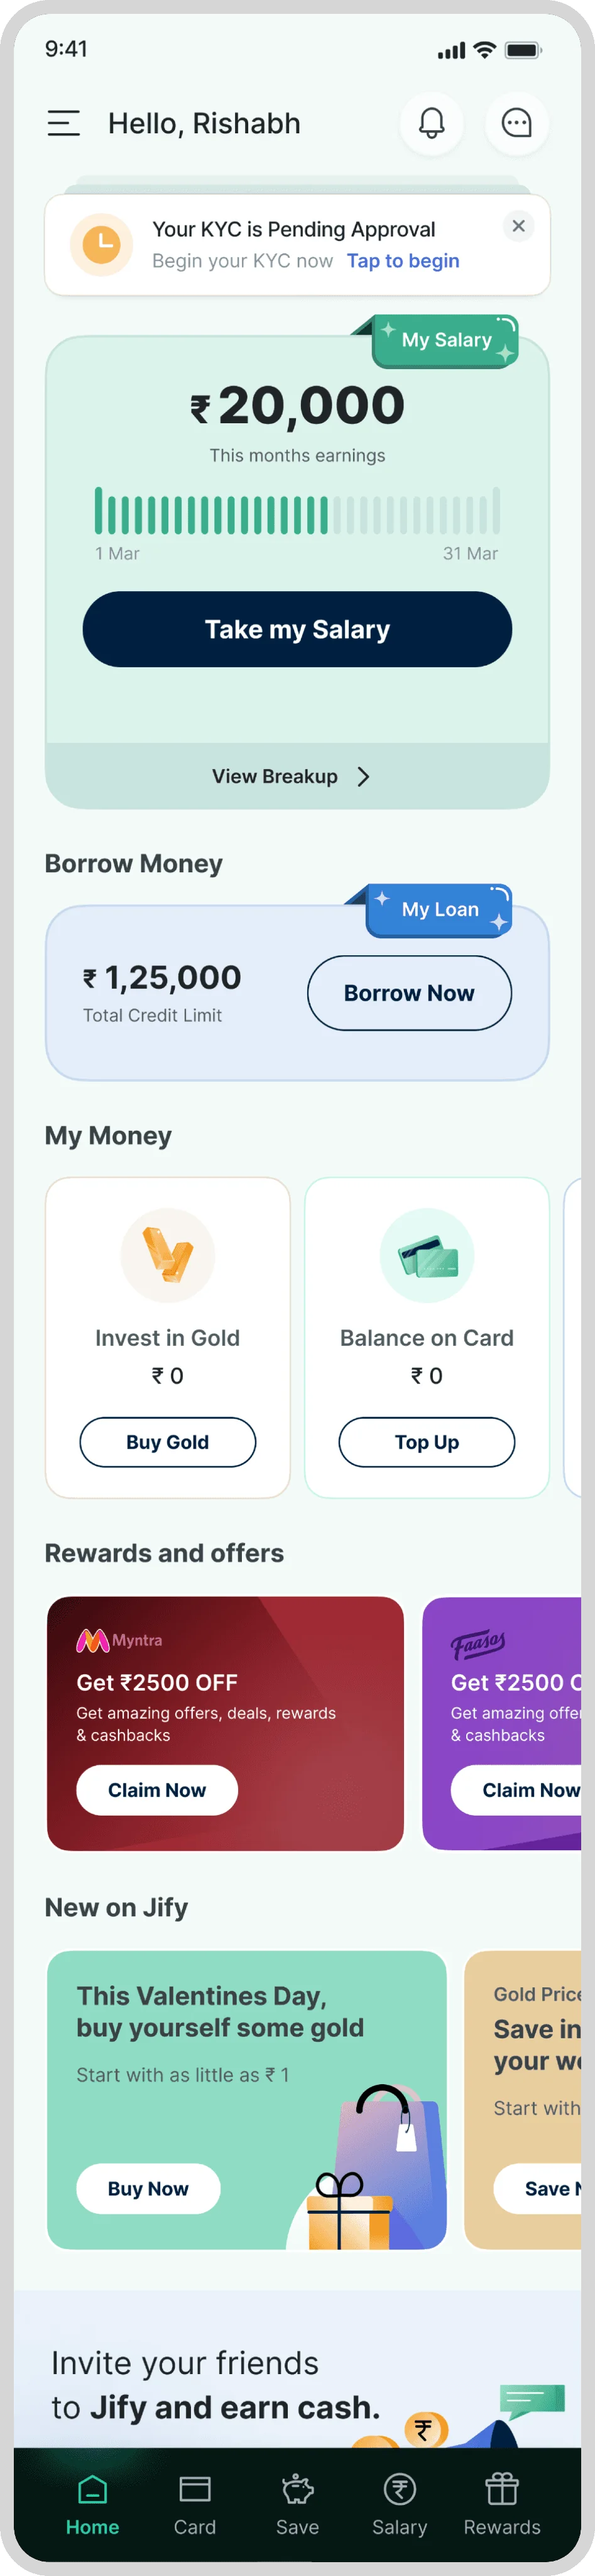
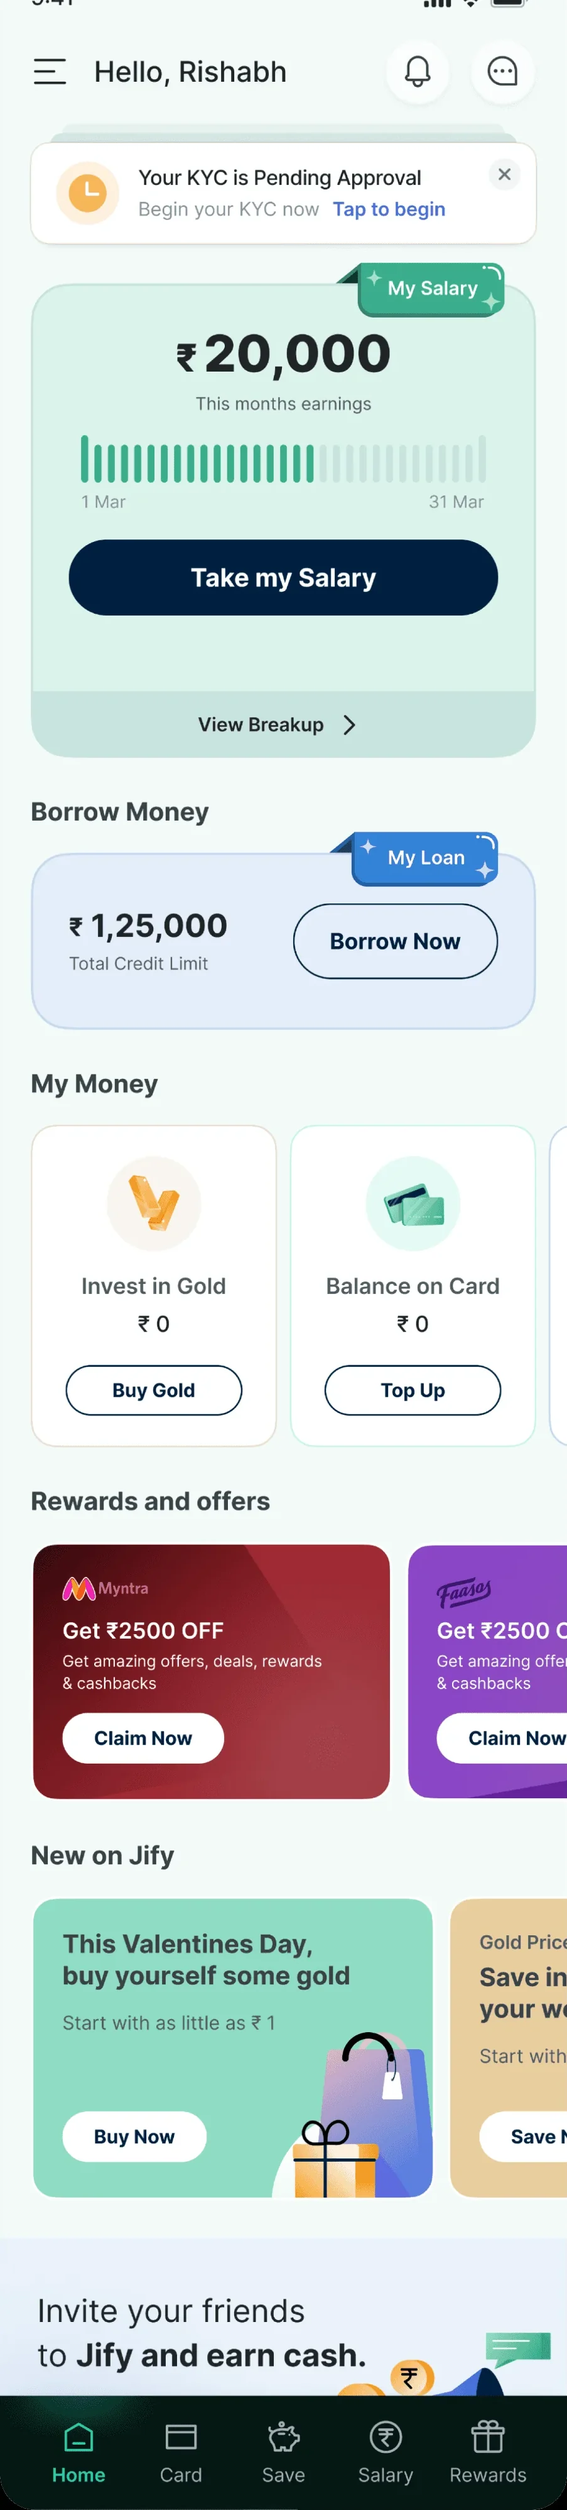
Jify: trim the shadow and corners off the homepage screen so it fills the phone
Claude-Session: https://claude.ai/code/session_01T9DhejLkAvT3djWqk8BUXi

diff --git a/v2/jify/index.html b/v2/jify/index.html
@@ -75,7 +75,7 @@
           </ol>
           <div class="phone-lg" aria-label="The full redesigned homepage, scrolling as you scroll: a KYC reminder, the My Salary card with this month's earnings, the My Loan card with a credit limit, My Money, rewards and offers, and what's new" role="img">
             <span class="island" aria-hidden="true"></span>
-            <div class="screen"><img src="../../assets/jify/homepage.webp" width="947" height="4096" alt="" loading="lazy"></div>
+            <div class="screen"><img src="../../assets/jify/homepage.webp" width="903" height="3992" alt="" loading="lazy"></div>
           </div>
           <ol class="scrolly-steps" aria-hidden="true">
             <li><i></i>My Salary</li>

diff --git a/v2/case.css b/v2/case.css
@@ -393,5 +393,5 @@
   .ds-set { padding: 0 24px; }
 }
 /* keep the top of the screen clear for the notch, like a status bar */
-.phone-lg .screen::before { content: ""; position: absolute; top: 0; left: 0; right: 0; z-index: 1; height: 40px; background: #f3f9f7; }
+.phone-lg .screen::before { content: ""; position: absolute; top: 0; left: 0; right: 0; z-index: 1; height: 40px; background: #f1f8f6; }
 .phone-lg .screen img { margin-top: 40px; }
